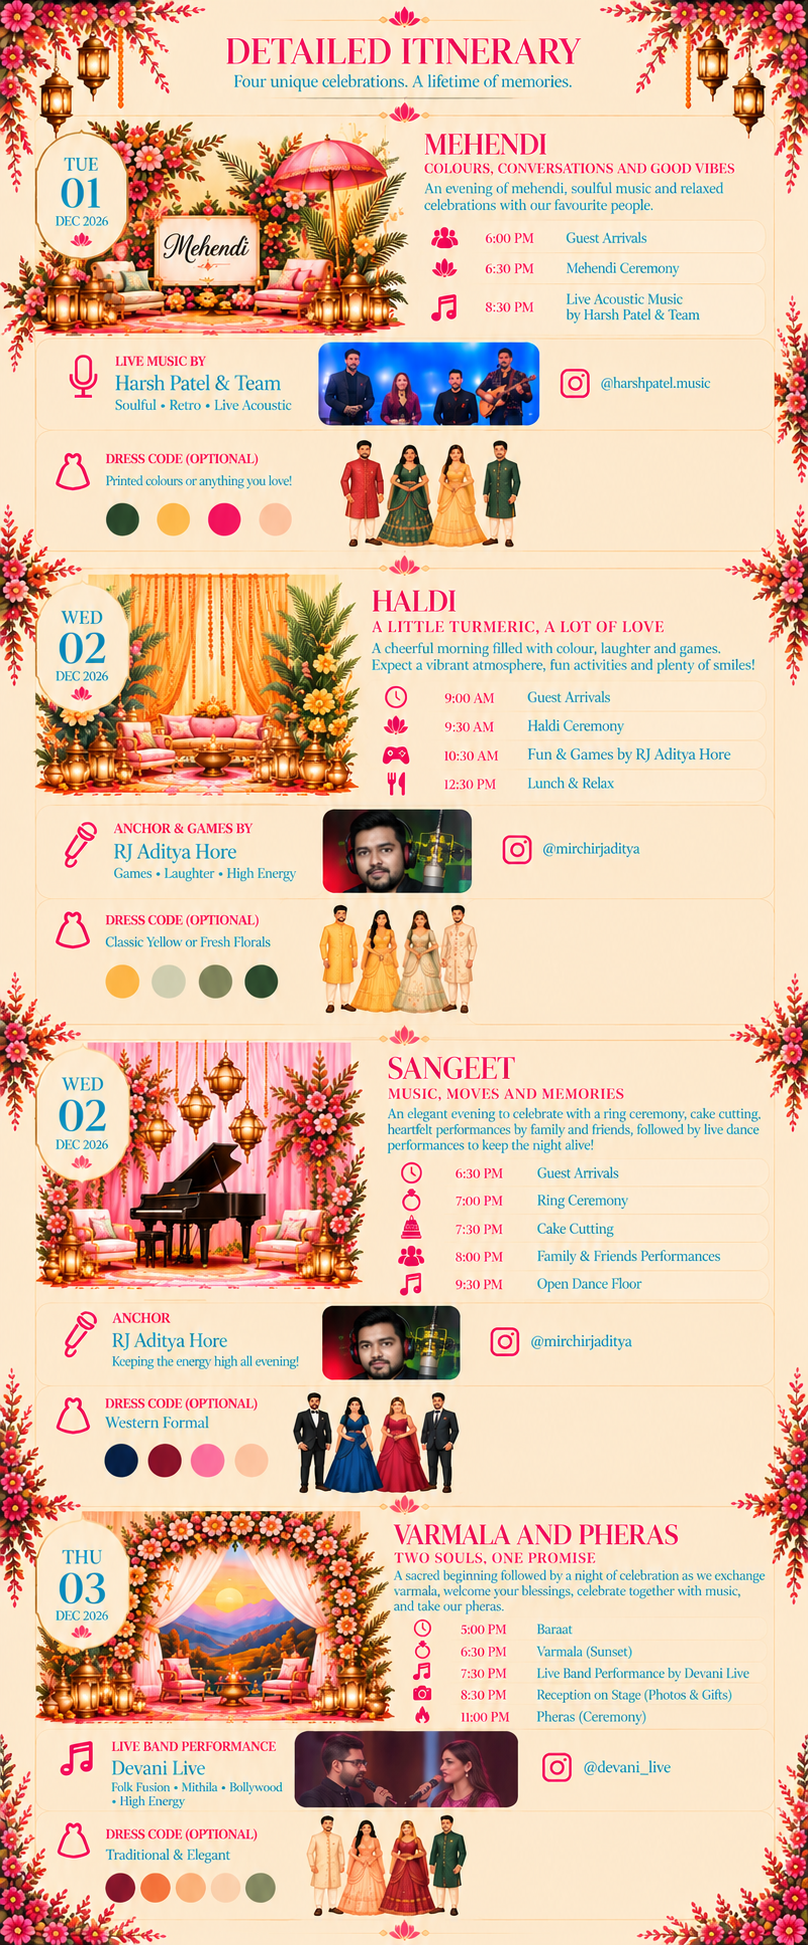
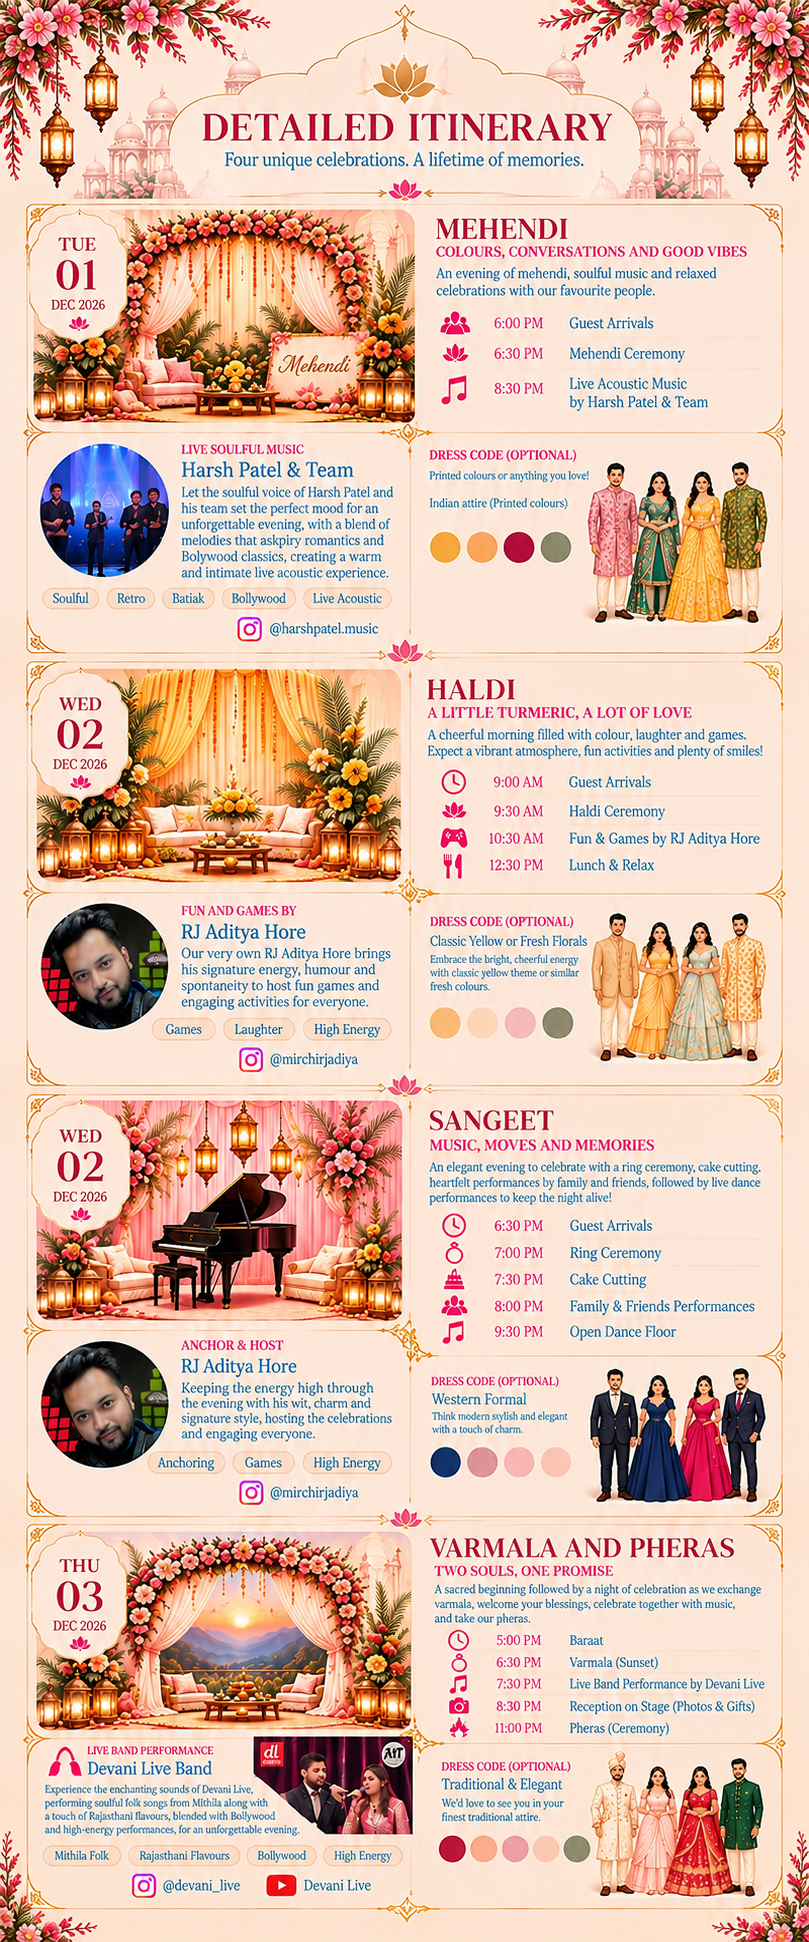
updating website

diff --git a/src/App.tsx b/src/App.tsx
@@ -1,5 +1,5 @@
 import React, { useState, useEffect } from 'react';
-import { Heart, Calendar, MapPin, Clock, Send, Check } from 'lucide-react';
+import { Heart, Calendar, MapPin, Clock, Send, Check, Instagram, MessageCircle, Phone } from 'lucide-react';
 
 // ─── Event Data ───────────────────────────────────────────────────────────────
 const EVENTS = [
@@ -423,9 +423,9 @@ export default function App() {
         <main id="our-venues" style={{ marginTop: '70px' }}>
           <section style={{ position: 'relative', width: '100%', height: 'auto' }}>
             <img src="/OurVenues.png" alt="Our Venues" style={{ width: '100%', height: 'auto', display: 'block' }} />
-            <a href="https://maps.app.goo.gl/xZ8vkBGj8LJy5gjy9" target="_blank" rel="noopener noreferrer" aria-label="View Green Fusion on Google Maps" style={{ position: 'absolute', top: '25.8%', right: '3%', width: '21%', height: '2.8%' }} />
-            <a href="https://maps.app.goo.gl/nP8uULEpJWJ7Hqj4A" target="_blank" rel="noopener noreferrer" aria-label="View Rosmarinus on Google Maps" style={{ position: 'absolute', top: '42.8%', right: '3%', width: '21%', height: '2.8%' }} />
-            <a href="https://maps.app.goo.gl/o3NyfACKD7yFngys6" target="_blank" rel="noopener noreferrer" aria-label="View Euphoria on Google Maps" style={{ position: 'absolute', top: '59.6%', right: '3%', width: '21%', height: '2.8%' }} />
+            <a href="https://maps.app.goo.gl/zu1CKdQhbokfSfAZ6" target="_blank" rel="noopener noreferrer" aria-label="View Green Fusion on Google Maps" style={{ position: 'absolute', top: '25.8%', right: '3%', width: '21%', height: '2.8%' }} />
+            <a href="https://maps.app.goo.gl/41KQhJY5sb4aox1DA" target="_blank" rel="noopener noreferrer" aria-label="View Rosmarinus on Google Maps" style={{ position: 'absolute', top: '42.8%', right: '3%', width: '21%', height: '2.8%' }} />
+            <a href="https://maps.app.goo.gl/DpYkb5gSdkFi4kTSA" target="_blank" rel="noopener noreferrer" aria-label="View Euphoria on Google Maps" style={{ position: 'absolute', top: '59.6%', right: '3%', width: '21%', height: '2.8%' }} />
           </section>
         </main>
       ) : showTrip ? (
@@ -445,11 +445,46 @@ export default function App() {
           />
         </main>
       ) : showItinerary ? (
-        <main style={{ marginTop: '70px' }}>
+        <main style={{ position: 'relative', marginTop: '70px' }}>
           <img
             src="/Detailed%20Itinerary.png"
             alt="Detailed wedding itinerary"
             style={{ width: '100%', height: 'auto', display: 'block' }}
+          />
+          <a
+            href="https://www.instagram.com/harshpatel.music/"
+            target="_blank"
+            rel="noopener noreferrer"
+            aria-label="Visit Harsh Patel on Instagram"
+            style={{ position: 'absolute', top: '31.6%', left: '29%', width: '23%', height: '1.6%' }}
+          />
+          <a
+            href="https://www.instagram.com/mirchirjaditya/"
+            target="_blank"
+            rel="noopener noreferrer"
+            aria-label="Visit RJ Aditya Hore on Instagram from the Haldi section"
+            style={{ position: 'absolute', top: '53.9%', left: '29%', width: '23%', height: '1.6%' }}
+          />
+          <a
+            href="https://www.instagram.com/mirchirjaditya/"
+            target="_blank"
+            rel="noopener noreferrer"
+            aria-label="Visit RJ Aditya Hore on Instagram from the Sangeet section"
+            style={{ position: 'absolute', top: '72%', left: '29%', width: '23%', height: '1.6%' }}
+          />
+          <a
+            href="https://www.instagram.com/devani_live/"
+            target="_blank"
+            rel="noopener noreferrer"
+            aria-label="Visit Devani Live on Instagram"
+            style={{ position: 'absolute', top: '96.6%', left: '16%', width: '15%', height: '1.8%' }}
+          />
+          <a
+            href="https://www.youtube.com/channel/UCjzfk1mIivp_suKut2XfmOg"
+            target="_blank"
+            rel="noopener noreferrer"
+            aria-label="Watch Devani Live on YouTube"
+            style={{ position: 'absolute', top: '96.6%', left: '32.5%', width: '16%', height: '1.8%' }}
           />
         </main>
       ) : (
@@ -461,8 +496,32 @@ export default function App() {
       </section>
 
       {/* ─── SECTION 2 ─── */}
-      <section id="story" style={{ width: '100%', height: 'auto' }}>
-        <img src="/Section2.png" alt="Section 2" style={{ width: '100%', height: 'auto', display: 'block' }} />
+      <section id="story" style={{ position: 'relative', width: '100%', height: 'auto' }}>
+        <img src="/Section2.png" alt="A celebration of love, family, and wedding festivities" style={{ width: '100%', height: 'auto', display: 'block' }} />
+        {[
+          { event: 'Mehendi', top: '49.4%' },
+          { event: 'Haldi', top: '63.3%' },
+          { event: 'Sangeet', top: '75.4%' },
+          { event: 'Wedding', top: '88.7%' },
+        ].map(({ event, top }) => (
+          <button
+            key={event}
+            type="button"
+            aria-label={`View ${event} details`}
+            onClick={() => openPlanPage('itinerary')}
+            style={{
+              position: 'absolute',
+              top,
+              left: '53.5%',
+              width: '22%',
+              height: '1.8%',
+              padding: 0,
+              border: 0,
+              background: 'transparent',
+              cursor: 'pointer',
+            }}
+          />
+        ))}
       </section>
 
       </main>
@@ -507,15 +566,15 @@ export default function App() {
         backgroundImage: 'url(/RSVP%20Background.png)',
         backgroundSize: 'cover',
         backgroundPosition: 'center',
-        backgroundAttachment: 'fixed'
+        backgroundAttachment: 'fixed',
+        backgroundColor: '#FFF4E3'
       }}>
-        <div className="absolute inset-0 bg-black/20 pointer-events-none"></div>
-        
-        <div className="relative z-10 w-full max-w-xl">
+        <div className="absolute inset-0 bg-[#F9E3DC]/90 pointer-events-none"></div>
+        <div className="relative z-10 w-full max-w-lg">
           {/* ─── RSVP CARD ─── */}
           <div className="relative rounded-2xl" style={{
             borderStyle: 'solid',
-            borderWidth: 'clamp(84px, 22vw, 130px) clamp(16px, 4vw, 24px) clamp(96px, 25vw, 150px)',
+            borderWidth: 'clamp(76px, 19vw, 112px) clamp(14px, 3.8vw, 22px) clamp(86px, 22vw, 130px)',
             borderImageSource: 'url(/Form%20Border%20Frame.png)',
             borderImageSlice: '190 30 230 30 fill',
             borderImageRepeat: 'stretch',
@@ -524,7 +583,7 @@ export default function App() {
             display: 'flex',
             flexDirection: 'column',
             width: '100%',
-            padding: '24px 10% 28px',
+            padding: '16px 8% 20px',
             overflow: 'hidden'
           }}>
 
@@ -533,37 +592,37 @@ export default function App() {
 
             {submitted ? (
               <div className="text-center space-y-4 py-8">
-                <div className="w-16 h-16 rounded-full bg-[#f0e6d3] border-2 border-[#d4af37] flex items-center justify-center mx-auto">
-                  <Check className="w-8 h-8 text-[#d4af37]" />
+                <div className="w-16 h-16 rounded-full bg-[#f0e6d3] border-2 border-[#D9A441] flex items-center justify-center mx-auto">
+                  <Check className="w-8 h-8 text-[#D9A441]" />
                 </div>
-                <h3 className="text-2xl text-[#8b3a3a] font-bold" style={{ fontFamily: "'Playfair Display', serif" }}>
+                <h3 className="text-2xl text-[#8F2438] font-bold" style={{ fontFamily: "'Playfair Display', serif" }}>
                   Thank You!
                 </h3>
-                <p className="text-sm text-[#6b5844]">
+                <p className="text-sm text-[#8F2438]">
                   Your RSVP has been received. We look forward to celebrating with you.
                 </p>
-                <button onClick={() => setSubmitted(false)} className="mt-4 text-xs uppercase tracking-widest border border-[#d4af37] text-[#d4af37] rounded px-6 py-2 hover:bg-[#f0e6d3] transition-colors">
+                <button onClick={() => setSubmitted(false)} className="mt-4 text-xs uppercase tracking-widest border border-[#D9A441] text-[#D9A441] rounded px-6 py-2 hover:bg-[#f0e6d3] transition-colors">
                   Edit Response
                 </button>
               </div>
             ) : (
               <>
                 {/* ─── HEADER ─── */}
-                <h2 className="text-5xl text-center text-[#8b3a3a] mb-2 font-bold" style={{ fontFamily: "'Playfair Display', serif" }}>
+                <h2 className="text-4xl text-center text-[#8F2438] mb-1 font-bold" style={{ fontFamily: "'Playfair Display', serif" }}>
                   RSVP
                 </h2>
-                <p className="text-xs text-center uppercase tracking-[0.2em] text-[#8b3a3a] font-medium mb-1">We can't wait to celebrate</p>
-                <p className="text-xs text-center uppercase tracking-[0.2em] text-[#8b3a3a] font-medium mb-6">with you!</p>
+                <p className="text-[11px] text-center uppercase tracking-[0.2em] text-[#8F2438] font-medium mb-0.5">We can't wait to celebrate</p>
+                <p className="text-[11px] text-center uppercase tracking-[0.2em] text-[#8F2438] font-medium mb-4">with you!</p>
                 
-                <p className="text-center text-sm text-[#6b5844] mb-8">
+                <p className="text-center text-sm text-[#8F2438]/80 mb-5">
                   Please let us know if you'll be joining us for our wedding celebrations.
                 </p>
 
                 {/* ─── FORM ─── */}
-                <form onSubmit={handleSubmit} className="space-y-5">
+                <form onSubmit={handleSubmit} className="space-y-4">
                   {/* NAME INPUT */}
                   <div>
-                    <label className="block text-xs uppercase tracking-[0.15em] text-[#8b4513] mb-2 font-semibold">Your Name *</label>
+                    <label className="block text-xs uppercase tracking-[0.15em] text-[#8F2438] mb-2 font-semibold">Your Name *</label>
                     <div className="relative">
                       <img src="/user.svg" alt="user" className="absolute left-3 top-3.5 w-5 h-5" />
                       <input 
@@ -572,14 +631,14 @@ export default function App() {
                         value={rsvp.name} 
                         onChange={e => setRsvp({ ...rsvp, name: e.target.value })} 
                         placeholder="Full name" 
-                        className="w-full pl-10 pr-4 py-2 border-1 border-[#d4af37] rounded-lg bg-[#fdfaf7] text-[#8b4513] focus:outline-none focus:border-[#8b3a3a] transition-colors placeholder-[#b8860b]"
+                        className="w-full pl-10 pr-4 py-2 border border-[#D9A441] rounded-lg bg-[#FFF4E3] text-[#8F2438] focus:outline-none focus:border-[#8F2438] transition-colors placeholder-[#A66A50]"
                       />
                     </div>
                   </div>
 
                   {/* PHONE INPUT */}
                   <div>
-                    <label className="block text-xs uppercase tracking-[0.15em] text-[#8b4513] mb-2 font-semibold">Phone *</label>
+                    <label className="block text-xs uppercase tracking-[0.15em] text-[#8F2438] mb-2 font-semibold">Phone *</label>
                     <div className="relative">
                       <img src="/phone.svg" alt="phone" className="absolute left-3 top-3.5 w-5 h-5" />
                       <input 
@@ -588,22 +647,22 @@ export default function App() {
                         value={rsvp.phone} 
                         onChange={e => setRsvp({ ...rsvp, phone: e.target.value })} 
                         placeholder="+91 98765 43210" 
-                        className="w-full pl-10 pr-4 py-2 border-1 border-[#d4af37] rounded-lg bg-[#fdfaf7] text-[#8b4513] focus:outline-none focus:border-[#8b3a3a] transition-colors placeholder-[#b8860b]"
+                        className="w-full pl-10 pr-4 py-2 border border-[#D9A441] rounded-lg bg-[#FFF4E3] text-[#8F2438] focus:outline-none focus:border-[#8F2438] transition-colors placeholder-[#A66A50]"
                       />
                     </div>
                   </div>
 
                   {/* ATTENDANCE BUTTONS */}
                   <div>
-                    <label className="block text-xs uppercase tracking-[0.15em] text-[#8b4513] mb-3 font-semibold">Will You Attend?</label>
+                    <label className="block text-xs uppercase tracking-[0.15em] text-[#8F2438] mb-3 font-semibold">Will You Attend?</label>
                     <div className="grid grid-cols-2 gap-3">
                       <button 
                         type="button" 
                         onClick={() => setRsvp({ ...rsvp, attending: 'yes' })}
-                        className={`py-3 rounded-lg text-xs uppercase tracking-wider font-semibold border-1 transition-all flex items-center justify-center gap-2 ${
+                        className={`py-2.5 rounded-lg text-[10px] uppercase tracking-wider font-semibold border-1 transition-all flex items-center justify-center gap-2 ${
                           rsvp.attending === 'yes' 
-                            ? 'bg-[#c9a96e] text-white border-[#c9a96e]' 
-                            : 'bg-white text-[#8b4513] border-[#d4af37] hover:border-[#c9a96e]'
+                            ? 'bg-[#E88D91] text-white border-[#E88D91]' 
+                            : 'bg-white text-[#8F2438] border-[#D9A441] hover:border-[#E88D91]'
                         }`}
                       >
                         ✓ Joyfully Accept
@@ -611,10 +670,10 @@ export default function App() {
                       <button 
                         type="button" 
                         onClick={() => setRsvp({ ...rsvp, attending: 'no' })}
-                        className={`py-3 rounded-lg text-xs uppercase tracking-wider font-semibold border-1 transition-all flex items-center justify-center gap-2 ${
+                        className={`py-2.5 rounded-lg text-[10px] uppercase tracking-wider font-semibold border-1 transition-all flex items-center justify-center gap-2 ${
                           rsvp.attending === 'no' 
-                            ? 'bg-[#c9a96e] text-white border-[#c9a96e]' 
-                            : 'bg-white text-[#8b4513] border-[#d4af37] hover:border-[#c9a96e]'
+                            ? 'bg-[#E88D91] text-white border-[#E88D91]' 
+                            : 'bg-white text-[#8F2438] border-[#D9A441] hover:border-[#E88D91]'
                         }`}
                       >
                         ✗ Regretfully Decline
@@ -626,36 +685,36 @@ export default function App() {
                     <>
                       {/* NUMBER OF GUESTS */}
                       <div>
-                        <label className="block text-xs uppercase tracking-[0.15em] text-[#8b4513] mb-2 font-semibold">Number of Guests</label>
+                        <label className="block text-xs uppercase tracking-[0.15em] text-[#8F2438] mb-2 font-semibold">Number of Guests</label>
                         <div className="relative">
                           <img src="/guest.svg" alt="guest" className="absolute left-3 top-3.5 w-5 h-5" />
                           <select 
                             value={rsvp.guestCount} 
                             onChange={e => setRsvp({ ...rsvp, guestCount: e.target.value })} 
-                            className="w-full pl-10 pr-4 py-2 border-1 border-[#d4af37] rounded-lg bg-[#fdfaf7] text-[#8b4513] focus:outline-none focus:border-[#8b3a3a] transition-colors appearance-none cursor-pointer"
+                            className="w-full pl-10 pr-4 py-2 border border-[#D9A441] rounded-lg bg-[#FFF4E3] text-[#8F2438] focus:outline-none focus:border-[#8F2438] transition-colors appearance-none cursor-pointer"
                           >
                             {[1,2,3,4,5].map(n => <option key={n} value={n}>{n} {n===1?'Guest':'Guests'}</option>)}
                           </select>
-                          <span className="absolute right-3 top-3.5 pointer-events-none text-[#d4af37]">▼</span>
+                          <span className="absolute right-3 top-3.5 pointer-events-none text-[#D9A441]">▼</span>
                         </div>
                       </div>
 
                       {/* EVENTS CHECKBOXES */}
                       <div>
-                        <label className="block text-xs uppercase tracking-[0.15em] text-[#8b4513] mb-3 font-semibold">Events You'll Attend</label>
+                        <label className="block text-xs uppercase tracking-[0.15em] text-[#8F2438] mb-3 font-semibold">Events You'll Attend</label>
                         <div className="grid grid-cols-2 gap-3">
                           {EVENTS.map((ev, idx) => {
                             const iconFiles = ['mehandi.svg', 'haldi.svg', 'sangeet.svg', 'wedding.svg'];
                             return (
-                              <label key={ev.id} className="flex items-center gap-2 p-3 border-1 border-[#d4af37] rounded-lg bg-white cursor-pointer hover:border-[#c9a96e] transition-colors">
+                              <label key={ev.id} className="flex items-center gap-2 p-2.5 border border-[#D9A441] rounded-lg bg-[#FFF4E3] cursor-pointer hover:border-[#E88D91] transition-colors">
                                 <input 
                                   type="checkbox" 
                                   checked={rsvp.events.includes(ev.id)} 
                                   onChange={() => toggleEvent(ev.id)} 
-                                  className="accent-[#c9a96e] w-4 h-4" 
+                                  className="accent-[#E88D91] w-4 h-4" 
                                 />
                                 <img src={`/${iconFiles[idx]}`} alt={ev.name} className="w-5 h-5" />
-                                <span className="text-xs text-[#8b4513] font-medium">{ev.name}</span>
+                                <span className="text-xs text-[#8F2438] font-medium">{ev.name}</span>
                               </label>
                             );
                           })}
@@ -666,15 +725,15 @@ export default function App() {
 
                   {/* WISHES TEXTAREA */}
                   <div>
-                    <label className="block text-xs uppercase tracking-[0.15em] text-[#8b4513] mb-2 font-semibold">Wishes for the Couple</label>
+                    <label className="block text-xs uppercase tracking-[0.15em] text-[#8F2438] mb-2 font-semibold">Wishes, Requests &amp; Ideas</label>
                     <div className="relative">
                       <img src="/heart.svg" alt="heart" className="absolute left-3 top-3 w-5 h-5" />
                       <textarea 
                         rows={3} 
                         value={rsvp.message} 
                         onChange={e => setRsvp({ ...rsvp, message: e.target.value })} 
-                        placeholder="Share your warmest wishes…" 
-                        className="w-full pl-10 pr-4 py-2 border-1 border-[#d4af37] rounded-lg bg-[#fdfaf7] text-[#8b4513] resize-none focus:outline-none focus:border-[#8b3a3a] transition-colors placeholder-[#b8860b]"
+                        placeholder="A song you'd love to hear, a special moment to plan, or a fun idea for the celebrations." 
+                        className="w-full pl-10 pr-4 py-2 border border-[#D9A441] rounded-lg bg-[#FFF4E3] text-[#8F2438] resize-none focus:outline-none focus:border-[#8F2438] transition-colors placeholder:text-xs placeholder-[#A66A50]"
                       />
                     </div>
                   </div>
@@ -682,7 +741,7 @@ export default function App() {
                   {/* SUBMIT BUTTON */}
                   <button 
                     type="submit" 
-                    className="w-full py-4 bg-gradient-to-r from-[#b8956a] to-[#a67c52] text-white text-xs uppercase tracking-[0.2em] font-semibold rounded-lg hover:from-[#a67c52] hover:to-[#8b6a47] transition-all shadow-lg flex items-center justify-center gap-2 mt-4"
+                    className="w-full py-4 bg-[#8F2438] text-white text-xs uppercase tracking-[0.2em] font-semibold rounded-lg hover:bg-[#761B2C] transition-all shadow-lg flex items-center justify-center gap-2 mt-4"
                   >
                     <img src="/plane.svg" alt="plane" className="w-4 h-4" />
                     Confirm RSVP
@@ -714,6 +773,16 @@ export default function App() {
           <h3 className="text-2xl text-[#8b3a3a] font-bold" style={{ fontFamily: "'Playfair Display', serif" }}>Aulick & Rishi</h3>
           <p className="text-xs uppercase tracking-[0.12em] text-[#8b3a3a] font-medium">1st - 3rd December 2026 · Surat</p>
           <p className="text-xs text-[#8b3a3a] opacity-70">Made with love for our family &amp; friends</p>
+          <div className="flex items-center justify-center gap-5 pt-2 text-[#8F2438]" aria-label="Social media and contact icons">
+            <Instagram className="w-4 h-4" aria-label="Instagram" />
+            <span className="relative inline-flex w-4 h-4 items-center justify-center" aria-label="WhatsApp">
+              <MessageCircle className="absolute inset-0 w-4 h-4" />
+              <span className="text-[8px] font-semibold leading-none">☎</span>
+            </span>
+            <a href="tel:+917349081610" aria-label="Call +91 73490 81610" className="inline-flex text-inherit hover:opacity-70 transition-opacity">
+              <Phone className="w-4 h-4" aria-hidden="true" />
+            </a>
+          </div>
         </div>
       </footer>
     </div>
